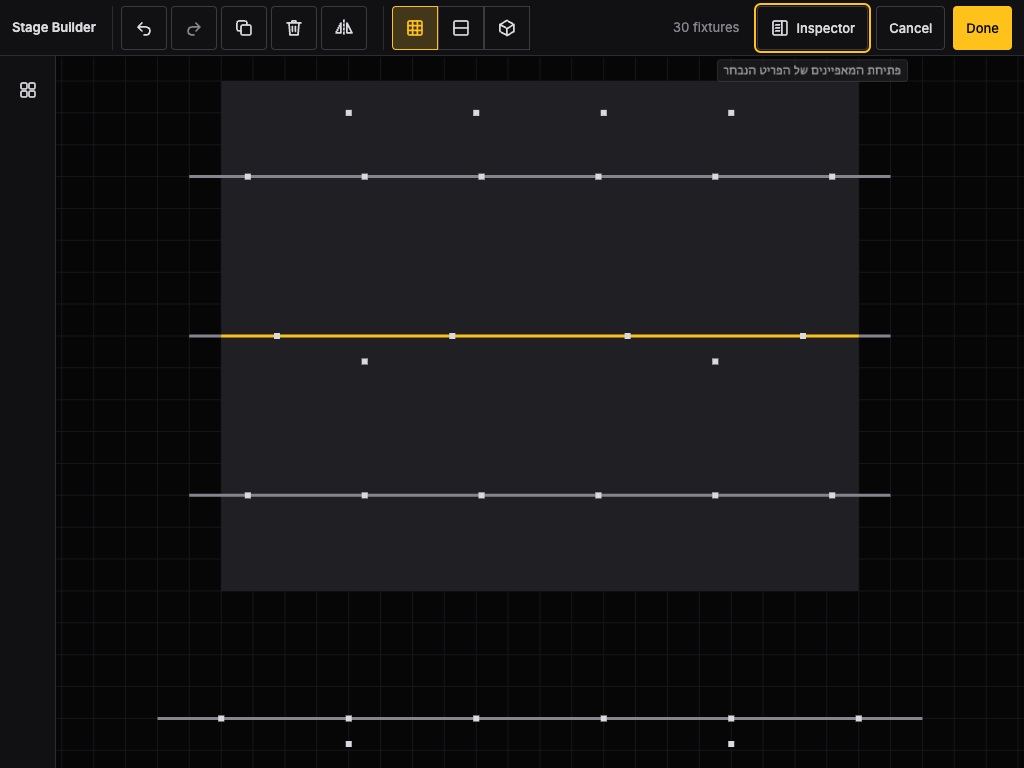
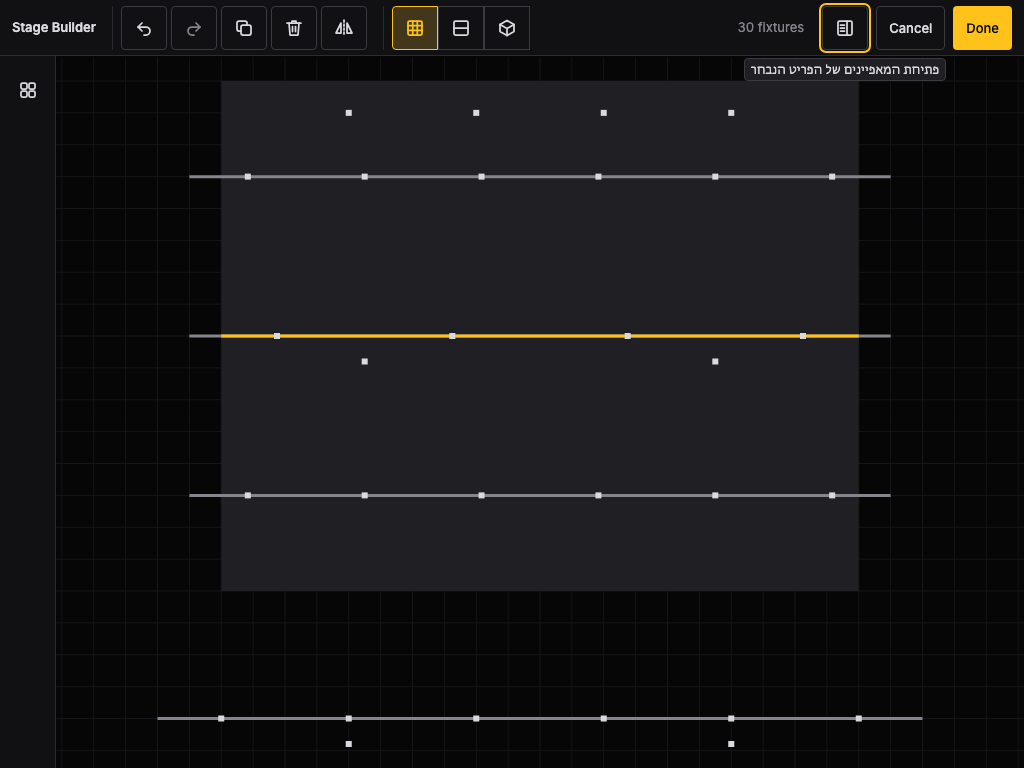
Stage Builder shell: the bar fits 768 px; the drawer host leaves the grid rows
Below 1100 px the bar items no longer shrink (only the count badge may, with an ellipsis): a shrunk
mode group stacked its buttons and the 56 px bar showed only Split. The Inspector button shows only
its icon, the title hides below 820 px (toolbar.md), and the narrow icon labels are hidden from
sight only, so the buttons keep their accessible names. The open wa-drawer host is fixed over the
window with pointer-events only on its dialog, so it adds no implicit grid row. New e2e test for
the iPad portrait bar; the narrow test checks the drawer host and the two grid rows. Retaken
768/1024 design-review PNGs.

Changed region(s): [[0.6562, 0.0, 0.9375, 0.125]]

diff --git a/tests/e2e/builder-shell.layout.spec.ts b/tests/e2e/builder-shell.layout.spec.ts
@@ -1,6 +1,7 @@
 /**
  * The Stage Builder shell's columns on a wide and a narrow screen: the column widths, the bar height, the 44 px touch
- * targets of the bar, the centre panes sharing the height, and the narrow screen's icon rail and inspector drawer. The
+ * targets of the bar, the centre panes sharing the height, the narrow screen's icon rail and inspector drawer, and the
+ * bar fitting an iPad portrait window. The
  * divider and the view modes are owned by builder-shell.divider, the network boundary by builder-shell.network, and
  * the tools inside the inspector by builder-flow.
  */
@@ -56,6 +57,10 @@ test('narrow (1024 px): a 56 px library rail, Plan first, and the inspector in a
   const drawer = page.locator('wa-drawer.inspector-drawer');
   await page.getByRole('button', { name: 'Inspector', exact: true }).click();
   await expect(drawer).toHaveAttribute('open', '');
+  // the open host covers the window out of the grid flow, so it is visible and the grid keeps its two rows
+  await expect(drawer).toBeVisible();
+  const rows = await page.locator('section.builder').evaluate((host) => getComputedStyle(host).gridTemplateRows);
+  expect(rows.split(' ')).toHaveLength(2);
   await expect(drawer.getByRole('tab', { name: 'Trusses' })).toBeVisible();
   // Escape asks the drawer to close (`wa-hide`). The close itself is not awaited: Web Awesome ends its hide animation
   // on a requestAnimationFrame, and under `?test` the page's animation frames do not run, so `open` would never go.
@@ -65,4 +70,28 @@ test('narrow (1024 px): a 56 px library rail, Plan first, and the inspector in a
   }));
   await page.keyboard.press('Escape');
   expect([await hide.evaluate((h) => h.fired), errors]).toEqual(['wa-hide', []]);
+});
+
+// Bug: at 768 px the bar's items shrank to fit, so the mode group stacked its three buttons in a 76 px column and the
+// 56 px bar showed only Split.
+test('fits the bar in an iPad portrait window', async ({ page }) => {
+  const errors = collectErrors(page);
+  await page.setViewportSize({ width: 768, height: 1024 });
+  await bootApp(page);
+  await openBuilder(page);
+  // a class: the bar is a <header> inside the builder, with no role or name
+  const bar = page.locator('.builder-bar');
+  const overflow = await bar.evaluate((el) => el.scrollWidth - el.clientWidth);
+  const [, , barWidth, barHeight] = await boxOf(bar);
+  const outside: string[] = [];
+  for (const name of ['Plan', 'Split', '3D', 'Done']) {
+    const [x, y, w, h] = await boxOf(page.getByRole('button', { name, exact: true }));
+    if (x < 0 || y < 0 || x + w > barWidth || y + h > barHeight) outside.push(`${name}: ${x},${y} ${w}x${h}`);
+  }
+  const small = await bar
+    .locator('wa-button:visible')
+    .evaluateAll(
+      (all) => all.map((b) => b.getBoundingClientRect()).filter((box) => box.width < 44 || box.height < 44).length,
+    );
+  expect([overflow, barWidth, outside, small, errors]).toEqual([0, 768, [], 0, []]);
 });

diff --git a/src/styles/builder/_bar.scss b/src/styles/builder/_bar.scss
@@ -1,7 +1,11 @@
 @use '../abstracts/breakpoints' as *;
 
+// Below this width (iPad portrait) the bar has no room for its title (toolbar.md, narrow layout).
+$builder-title-hidden: 819px;
+
 // The builder bar (docs/plan/stage-builder-ux/toolbar.md): title, edit group, view-mode group, count badge, then the
-// session buttons. One row that never wraps; the buttons get their colours from the Web Awesome tokens.
+// session buttons. One row that never wraps; the buttons get their colours from the Web Awesome tokens. Only the badge
+// may shrink (it ends in an ellipsis): a shrunk group would stack its buttons, and the bar's row would clip them.
 .builder {
   .builder-bar {
     display: flex;
@@ -10,11 +14,15 @@
     padding-inline: 12px;
     background: var(--p1);
     border-block-end: 1px solid var(--line);
+    > * {
+      flex-shrink: 0;
+    }
   }
   .builder-title {
     margin-inline-end: 8px;
     font-size: 13px;
     font-weight: 600;
+    white-space: nowrap;
   }
   .edit-tools,
   .view-modes {
@@ -23,9 +31,15 @@
     padding-inline: 8px;
     border-inline-start: 1px solid var(--line);
   }
+  // after `.builder-bar > *` (same specificity), so the badge alone shrinks
   .count-badge {
+    flex-shrink: 1;
+    min-width: 0;
     margin-inline-start: auto;
     padding-inline: 10px;
+    overflow: hidden;
+    text-overflow: ellipsis;
+    white-space: nowrap;
     color: var(--mut);
     font-variant-numeric: tabular-nums;
     &.is-warning {
@@ -47,15 +61,29 @@
   }
 }
 
-// Narrow: the edit and mode buttons keep only the icon (44 x 44) and their tooltip; Cancel and Done keep the text.
+// Narrow: the edit, mode and Inspector buttons show only the icon (44 x 44) and their tooltip; Cancel and Done keep
+// the text. The label (a <slot>) is hidden from sight only: with `display: none` the button would lose its name.
 @include below($builder-narrow) {
   .builder .edit-tools wa-button,
-  .builder .view-modes wa-button {
+  .builder .view-modes wa-button,
+  .builder .builder-bar wa-button[data-builder='inspector'] {
     &::part(label) {
-      display: none;
+      display: block;
+      position: absolute;
+      width: 1px;
+      height: 1px;
+      overflow: hidden;
+      clip-path: inset(50%);
+      white-space: nowrap;
     }
     .wa-icon-svg {
       margin-inline-end: 0;
     }
+  }
+}
+
+@include below($builder-title-hidden) {
+  .builder .builder-title {
+    display: none;
   }
 }

diff --git a/src/styles/builder/_inspector.scss b/src/styles/builder/_inspector.scss
@@ -5,11 +5,17 @@
     background: var(--p1);
     border-inline-start: 1px solid var(--line);
   }
+  // The host is a child of the .builder grid; in flow it would add a third, 0 px row (and a 0 px box). Fixed, it leaves
+  // the grid. While open (closed it is display: none) it covers the window, so clicks go through it to the dialog only.
   .inspector-drawer {
     --size: 320px;
     --spacing: 12px;
+    position: fixed;
+    inset: 0;
+    pointer-events: none;
   }
   .inspector-drawer::part(dialog) {
+    pointer-events: auto;
     background: var(--p1);
     color: var(--txt);
   }
